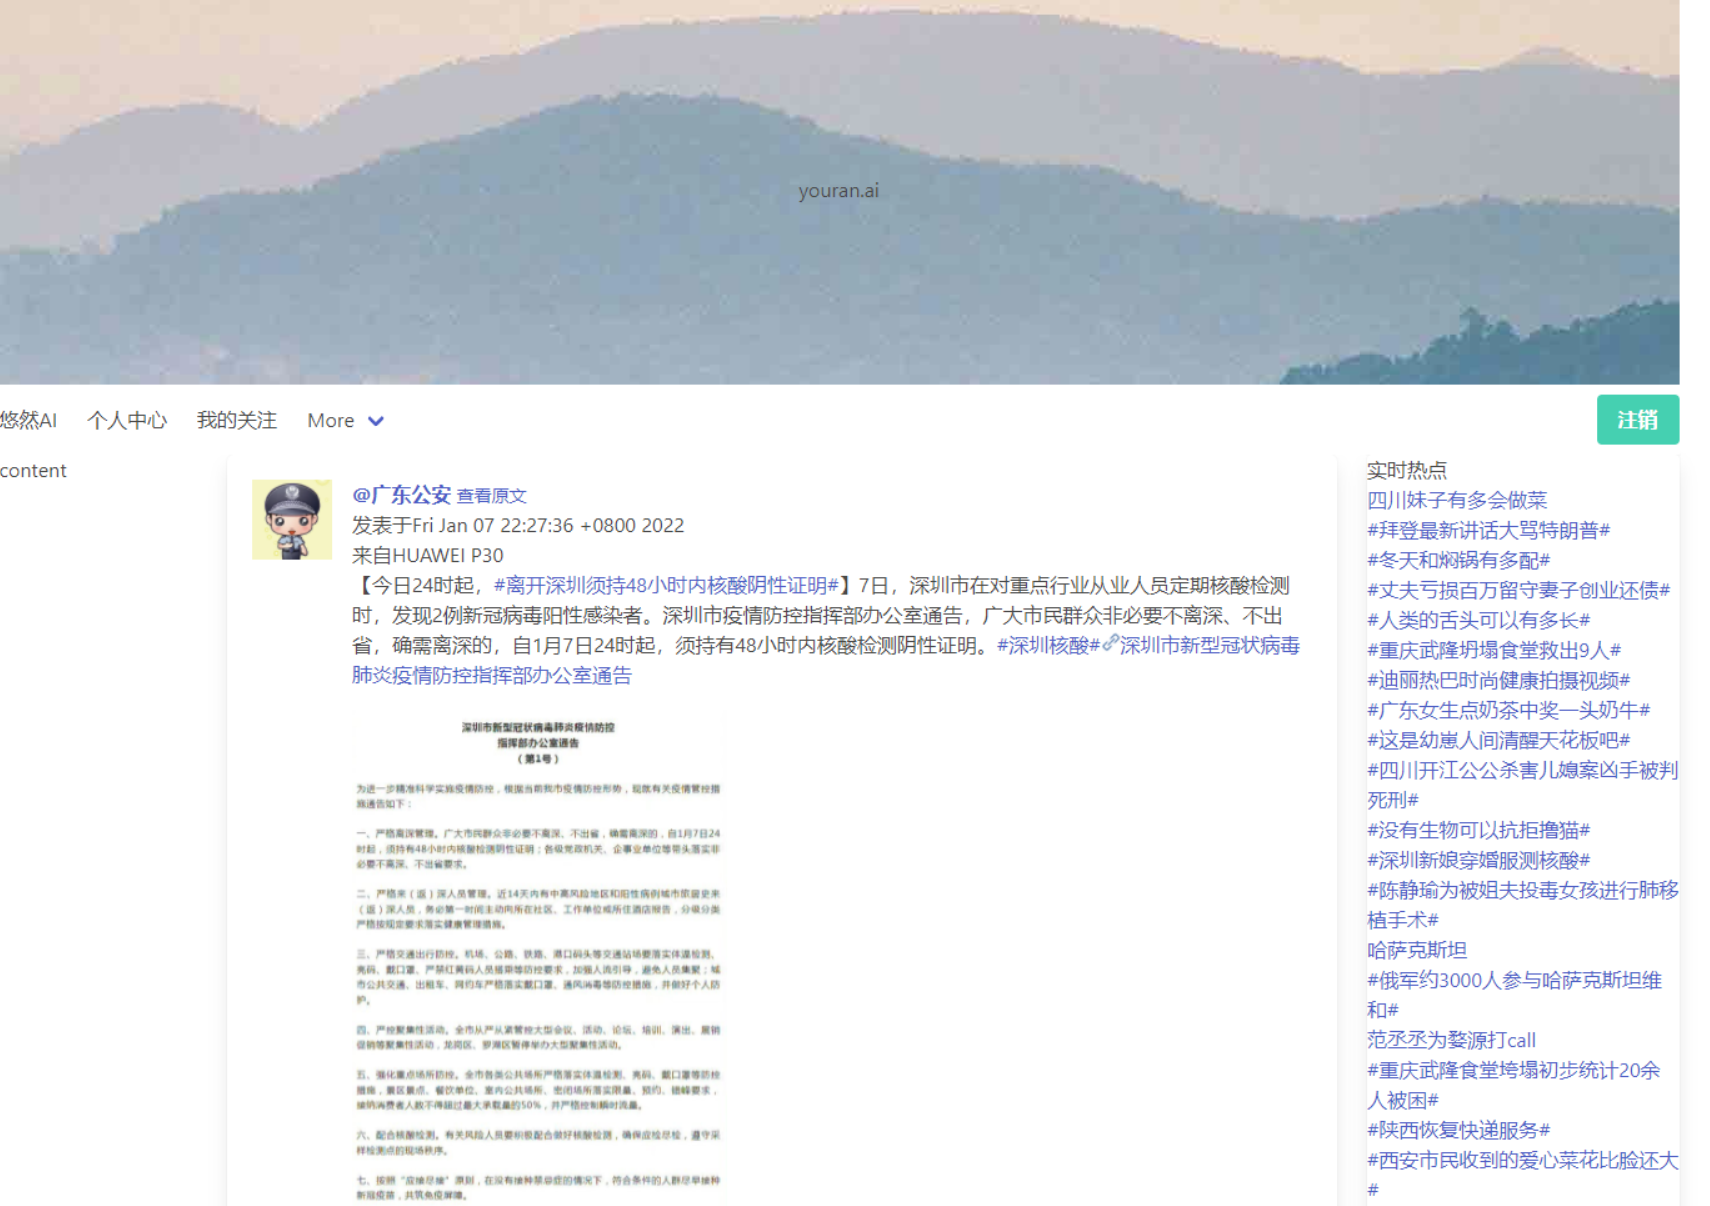
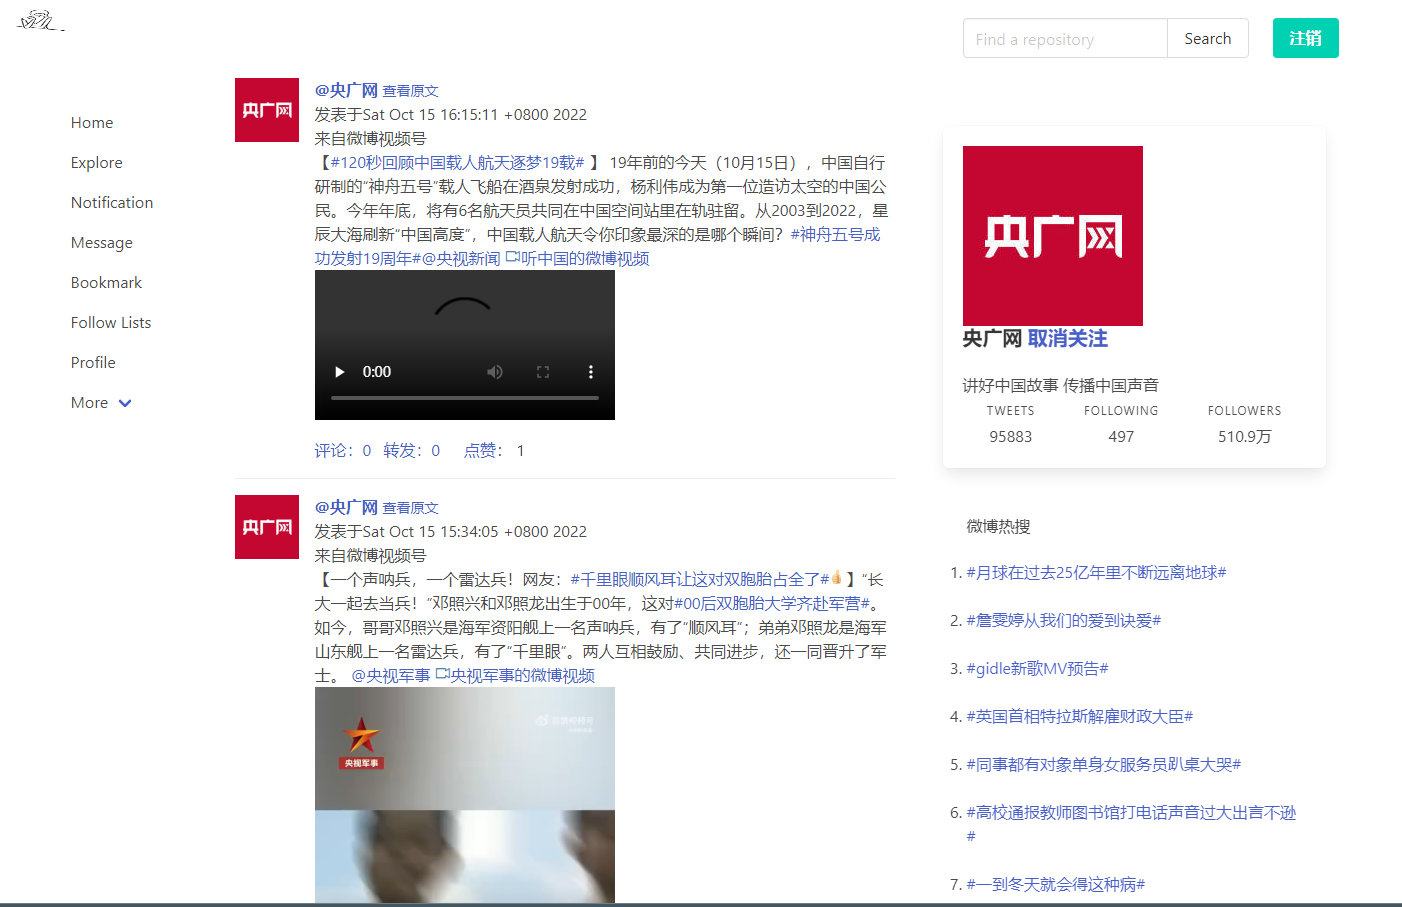
修改ReadME

diff --git a/README.md b/README.md
@@ -4,6 +4,11 @@
 
 ## 【文档不完善，继续补充中。】
 
+## 20221015更新
+
+- 更新UI
+- 完善爬取逻辑
+
 ## 主要功能：
 
 - 爬取全站微博
@@ -15,28 +20,33 @@
 ## 功能展示
 
 - 用户主页
+
 ![](imgs/用户主页.png)
 
 - 个人主页
+
 ![](imgs/个人主页.png)
 
 - 关注页
+
 ![](imgs/关注页.png)
 
 - 博文页
+
 ![](imgs/博文页.png)
 
 - 搜索博主
+
 ![](imgs/搜索博主.png)
 
 - 随机博文
+
 ![](imgs/随机博文.png)
 
-- 随机博主
-![](imgs/随机博主.png)
+
 
 ## todo
-- 完善网页界面
+
 - 完善文档
 
 ## 功能
